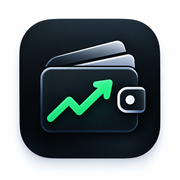
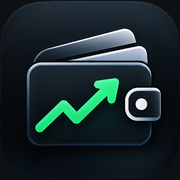
fix(brand): ícones sem fundo branco
O app-icon.png de origem não tem transparência e os ícones derivados
herdaram o fundo branco, que aparecia como borda na aba e no PWA.
Recortados pelo contorno do quadrado arredondado:
- favicon-32, icon-192 e icon-512 com cantos transparentes;
- apple-touch-icon e o novo icon-maskable-512 com fundo grafite até a
  borda (iOS e o ícone adaptável do Android arredondam sozinhos).

diff --git a/vite.pwa.config.ts b/vite.pwa.config.ts
@@ -51,7 +51,7 @@ export default defineConfig({
         icons: [
           { src: 'icon-192.png', sizes: '192x192', type: 'image/png' },
           { src: 'icon-512.png', sizes: '512x512', type: 'image/png' },
-          { src: 'icon-512.png', sizes: '512x512', type: 'image/png', purpose: 'maskable' }
+          { src: 'icon-maskable-512.png', sizes: '512x512', type: 'image/png', purpose: 'maskable' }
         ]
       }
     })
